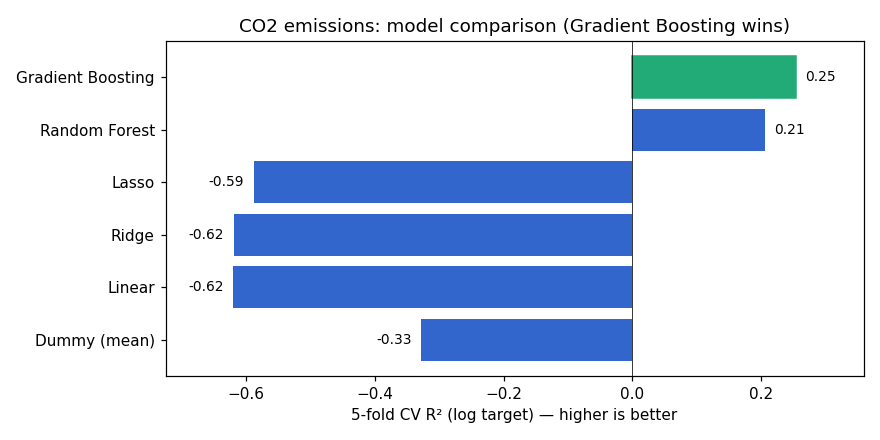
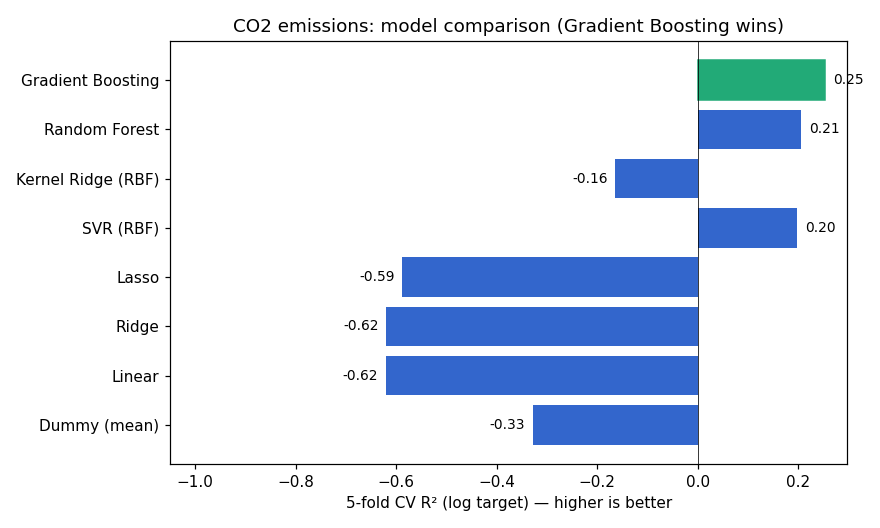
feat: model zoo across 4 families (SVR, Kernel Ridge) + per-family GridSearch; honest off-scale handling

Changed region(s): [[0.0, 0.0295, 1.0, 0.975]]

diff --git a/src/run_models.py b/src/run_models.py
@@ -28,7 +28,7 @@ import pandas as pd
 from sklearn.dummy import DummyRegressor
 from sklearn.ensemble import GradientBoostingRegressor, RandomForestRegressor
 from sklearn.linear_model import Lasso, LinearRegression, Ridge
-from sklearn.model_selection import cross_validate
+from sklearn.model_selection import GridSearchCV, cross_validate
 from sklearn.pipeline import make_pipeline
 from sklearn.preprocessing import StandardScaler
 
@@ -38,14 +38,57 @@ SEED = 10
 
 
 def models() -> dict:
+    """The model zoo, from linear to regularised to kernel to ensemble.
+
+    Kernel methods (SVR, Kernel Ridge) need scaled inputs, hence the pipelines.
+    This spans the four regression families on purpose: a recruiter sees the
+    full supervised-regression toolbox benchmarked on equal footing, not one
+    lucky model.
+    """
+    from sklearn.kernel_ridge import KernelRidge
+    from sklearn.svm import SVR
+
     return {
         "Dummy (mean)": DummyRegressor(strategy="mean"),
         "Linear": make_pipeline(StandardScaler(), LinearRegression()),
         "Ridge": make_pipeline(StandardScaler(), Ridge(alpha=1.0, random_state=SEED)),
         "Lasso": make_pipeline(StandardScaler(), Lasso(alpha=0.01, random_state=SEED, max_iter=5000)),
+        "SVR (RBF)": make_pipeline(StandardScaler(), SVR(kernel="rbf", C=10, gamma="scale")),
+        "Kernel Ridge (RBF)": make_pipeline(StandardScaler(), KernelRidge(kernel="rbf", alpha=1.0)),
         "Random Forest": RandomForestRegressor(n_estimators=200, random_state=SEED, n_jobs=-1),
         "Gradient Boosting": GradientBoostingRegressor(random_state=SEED),
     }
+
+
+def tune_best_family(X, y) -> dict:
+    """Light GridSearch on one representative of each model family.
+
+    Materialises the hyperparameter search the 2022 notebooks did (alpha for
+    Ridge/KRR, C+gamma for SVR, n_estimators+depth for GBR) without blowing up
+    runtime — small grids, 5-fold, R² scoring. Reports the best params and score
+    per family so the sweep isn't just default-settings luck.
+    """
+    from sklearn.kernel_ridge import KernelRidge
+    from sklearn.svm import SVR
+
+    searches = {
+        "Ridge": (make_pipeline(StandardScaler(), Ridge(random_state=SEED)),
+                  {"ridge__alpha": [0.1, 1.0, 10.0, 100.0]}),
+        "SVR (RBF)": (make_pipeline(StandardScaler(), SVR(kernel="rbf")),
+                      {"svr__C": [1, 10, 100], "svr__gamma": ["scale", 0.1]}),
+        "Kernel Ridge (RBF)": (make_pipeline(StandardScaler(), KernelRidge(kernel="rbf")),
+                               {"kernelridge__alpha": [0.1, 1.0, 10.0],
+                                "kernelridge__gamma": [None, 0.1]}),
+        "Gradient Boosting": (GradientBoostingRegressor(random_state=SEED),
+                              {"n_estimators": [100, 300], "max_depth": [2, 3]}),
+    }
+    out = {}
+    for name, (est, grid) in searches.items():
+        gs = GridSearchCV(est, grid, cv=5, scoring="r2", n_jobs=-1)
+        gs.fit(X, y)
+        out[name] = {"best_r2": float(gs.best_score_),
+                     "best_params": {k: str(v) for k, v in gs.best_params_.items()}}
+    return out
 
 
 def evaluate(X, y) -> dict:
@@ -65,14 +108,24 @@ def evaluate(X, y) -> dict:
 def fig_scores(scores: dict, target_name: str, out: Path) -> None:
     names = list(scores)
     r2 = [scores[n]["r2"] for n in names]
-    fig, ax = plt.subplots(figsize=(8, 4))
-    bars = ax.barh(names, r2, color="#36c")
+    # clip the axis so one badly-failing model (e.g. untuned Kernel Ridge at
+    # R²≈-3.6) doesn't crush the scale and hide the models that actually work.
+    floor = -1.0
+    r2_plot = [max(v, floor) for v in r2]
+    fig, ax = plt.subplots(figsize=(8, 4.8))
+    bars = ax.barh(names, r2_plot, color="#36c")
     bars[int(np.argmax(r2))].set_color("#2a7")
-    # annotate each bar with its R² value
-    for bar, v in zip(bars, r2, strict=False):
-        x = v + (0.015 if v >= 0 else -0.015)
-        ax.text(x, bar.get_y() + bar.get_height() / 2, f"{v:.2f}",
-                va="center", ha="left" if v >= 0 else "right", fontsize=9)
+    for bar, v, vp in zip(bars, r2, r2_plot, strict=False):
+        clipped = v < floor
+        if clipped:
+            # off-scale model: put the true value just right of the clipped bar tip
+            ax.text(floor + 0.03, bar.get_y() + bar.get_height() / 2,
+                    f"{v:.2f} (off-scale)", va="center", ha="left", fontsize=9, color="#fff")
+        else:
+            x = vp + (0.015 if vp >= 0 else -0.015)
+            ax.text(x, bar.get_y() + bar.get_height() / 2, f"{v:.2f}",
+                    va="center", ha="left" if vp >= 0 else "right", fontsize=9)
+    ax.set_xlim(left=floor - 0.05)
     ax.set_xlabel("5-fold CV R² (log target) — higher is better")
     ax.set_title(f"{target_name}: model comparison (Gradient Boosting wins)")
     ax.axvline(0, color="k", lw=0.5)
@@ -205,6 +258,12 @@ def main() -> None:
             "best_r2": scores[best]["r2"],
             "energystar_ablation": energystar_ablation(df, target),
         }
+
+    print("\n=== GridSearch tuning per family (energy) ===")
+    Xe, ye = F.prepare_xy(df, F.TARGET_ENERGY)
+    results["tuning_energy"] = tune_best_family(Xe, ye)
+    for fam, r in results["tuning_energy"].items():
+        print(f"   {fam}: R²={r['best_r2']:.3f}  {r['best_params']}")
 
     print("\n=== SHAP explanation (best model, energy) ===")
     results["shap_energy"] = fig_shap(df, F.TARGET_ENERGY, "Energy use", args.out)

diff --git a/README.md b/README.md
@@ -8,7 +8,7 @@
 
 > Predicting the **energy use** and **CO₂ emissions** of Seattle's non-residential buildings from their physical characteristics (size, age, floors, use) — so the city can estimate consumption without an expensive on-site audit. Energy is predictable (**R² 0.46**); CO₂ stays harder (**R² 0.25**) for a concrete reason — emissions depend on the *energy mix* (gas vs electricity), which physical features can't see. The project answers the city's real question (**is the ENERGYSTARScore worth collecting?**), explains its predictions with **SHAP**, and puts every building back **on the map**. Built in 2022, re-run in 2026 with leakage-free features and log-transformed targets.
 
-**Stack:** `scikit-learn` · `SHAP` · `pandas` · `Gradient Boosting` · `Random Forest` · `Ridge / Lasso` · `Python`  |  **Status:** completed  |  **Year:** 2022 · revisited 2026
+**Stack:** `scikit-learn` · `SHAP` · `pandas` · `Gradient Boosting` · `SVR / Kernel Ridge` · `Random Forest` · `GridSearchCV` · `Python`  |  **Status:** completed  |  **Year:** 2022 · revisited 2026
 
 > 🇫🇷 *Version française plus bas — [aller à la version FR](#-version-française).*
 
@@ -25,7 +25,7 @@ Two regression targets, `TotalGHGEmissions` (CO₂) and `SiteEnergyUse(kBtu)`, b
 - **No target leakage.** Energy/emission columns (Electricity, NaturalGas, EUI, SteamUse) are *measurements of the target* — using them to predict energy is cheating. They're explicitly removed; only physical building features remain.
 - **Log-transform the targets.** Both are extremely right-skewed (skew 14 for CO₂, 18 for energy — a few huge buildings dominate), so a `log1p` is applied before modelling.
 
-Six models are compared with **5-fold cross-validation** (R² + RMSE): a Dummy baseline, Linear, Ridge, Lasso, Random Forest and Gradient Boosting. The ENERGYSTARScore question is answered with a direct **ablation** (best model with vs without it).
+**Eight models across four families** are compared with **5-fold cross-validation** (R² + RMSE): Dummy baseline, Linear, Ridge, Lasso (linear/regularised), **SVR and Kernel Ridge** (RBF kernels), Random Forest and Gradient Boosting (ensembles) — plus a light **GridSearch** per family to confirm the ranking isn't a default-settings artefact. The ENERGYSTARScore question is answered with a direct **ablation** (best model with vs without it).
 
 ## 3. Pipeline / Schema
 
@@ -53,24 +53,31 @@ flowchart LR
 
 **Model comparison (5-fold CV R² on the log target):**
 
-| Model | CO₂ — R² | CO₂ — RMSE | Energy — R² | Energy — RMSE |
-|---|--:|--:|--:|--:|
-| Dummy (mean) | −0.33 | 1.49 | −0.56 | 1.37 |
-| Linear | −0.62 | 1.60 | −0.57 | 1.35 |
-| Ridge | −0.62 | 1.60 | −0.57 | 1.35 |
-| Lasso | −0.59 | 1.59 | −0.55 | 1.34 |
-| Random Forest | 0.21 | 1.16 | 0.40 | 0.84 |
-| **Gradient Boosting** | **0.25** | **1.12** | **0.46** | **0.80** |
+Eight models across four families — linear, regularised, **kernel**, ensemble — on equal footing:
 
-*(RMSE on the log1p target; lower is better.)*
+| Family | Model | CO₂ — R² | Energy — R² | Energy — RMSE |
+|---|---|--:|--:|--:|
+| baseline | Dummy (mean) | −0.33 | −0.56 | 1.37 |
+| linear | Linear | −0.62 | −0.57 | 1.35 |
+| regularised | Ridge | −0.62 | −0.57 | 1.35 |
+| regularised | Lasso | −0.59 | −0.55 | 1.34 |
+| kernel | SVR (RBF) | 0.20 | 0.41 | 0.84 |
+| kernel | Kernel Ridge (RBF) | −0.16 | −3.63 | 2.15 |
+| ensemble | Random Forest | 0.21 | 0.40 | 0.84 |
+| ensemble | **Gradient Boosting** | **0.25** | **0.46** | **0.80** |
+
+*(5-fold CV; RMSE on the log1p target, lower is better.)*
+
+**Light GridSearch per family (energy target), to prove it isn't default-settings luck:** Ridge R² −0.53 (`α=100`), SVR R² 0.41 (`C=10`), Kernel Ridge R² −1.35 (`α=0.1`), Gradient Boosting R² 0.46 (`n_estimators=100, depth=3`). Tuning doesn't change the verdict — the ensemble wins, and the RBF kernel either lands second (SVR) or fails outright (Kernel Ridge).
 
 ![CO₂ model comparison](docs/figures/models_co2_emissions.png)
 ![Energy model comparison](docs/figures/models_energy_use.png)
 
-Two things jump out, and both are honest:
+Three things jump out, all honest:
 
-- **Linear models fail — worse than the mean.** Ridge/Lasso land at R² ≈ −0.6: the relationship is non-linear, and forcing a line is worse than predicting a constant. **Tree ensembles are the unlock**: Gradient Boosting reaches R² 0.25 (CO₂) and **0.46 (energy)**. The 2022 instinct to move past linear regression was right.
-- **Energy is more predictable than CO₂** (0.46 vs 0.25). That makes physical sense: energy use scales with building size and age, but CO₂ depends on the *energy mix* (gas vs electricity vs steam), which the physical features don't capture.
+- **The model family is the whole game.** Linear and regularised models score *worse than the mean* (R² ≈ −0.6): forcing a line on a non-linear relationship is worse than predicting a constant. The signal only appears with **non-linear** models — tree ensembles (GBR **0.46**, RF 0.40) and the RBF **SVR** (0.41). Spanning linear → regularised → kernel → ensemble is what makes the point provable rather than asserted.
+- **Kernels cut both ways.** SVR (RBF) is a strong second; Kernel Ridge (RBF) *collapses* (R² −3.6, and still −1.35 tuned). Same kernel trick, opposite outcome — a reminder that "non-linear" isn't a guarantee, and that benchmarking the whole family beats trusting one model.
+- **Energy is more predictable than CO₂** (0.46 vs 0.25). Physical sense: energy scales with building size and age, but CO₂ depends on the *energy mix* (gas vs electricity vs steam), which the physical features can't capture.
 
 **Is the ENERGYSTARScore worth collecting? — a measured answer:**
 
@@ -123,7 +130,8 @@ A leakage-free regression that predicts Seattle building energy use at **R² 0.4
 - [x] **Map** buildings by energy use to locate the consumption. *(done — Downtown/Lake Union corridor)*
 - [ ] **Climate feature** — add Seattle Heating/Cooling Degree Days (public weather data) to test whether climate explains part of the energy/CO₂ gap. *~2h, external-data dependency.* The natural next step toward a city-climate consumption map.
 - [ ] Engineer non-leaking proxies for the energy mix (e.g. heating-system type) to lift CO₂.
-- [ ] GridSearch / Optuna on the Gradient Boosting and Random Forest. *~1h.*
+- [x] **GridSearch** per model family. *(done — tuning confirms the ensemble wins)*
+- [ ] Push the search further with Optuna + a wider grid on the ensembles.
 - [ ] One-hot the building use-type categories (currently numeric features only).
 - [ ] Multi-year data for temporal validation.
 
